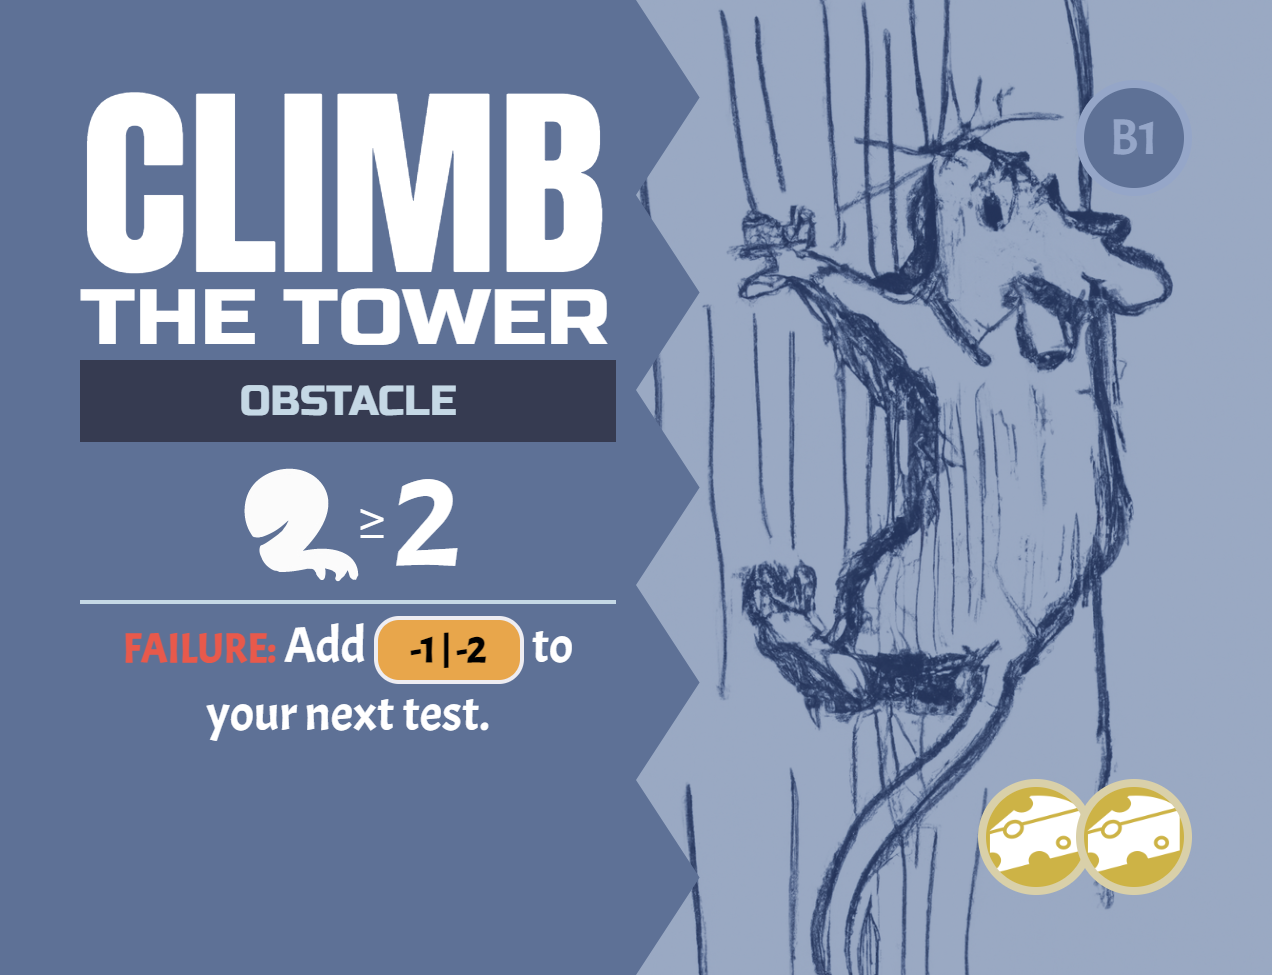
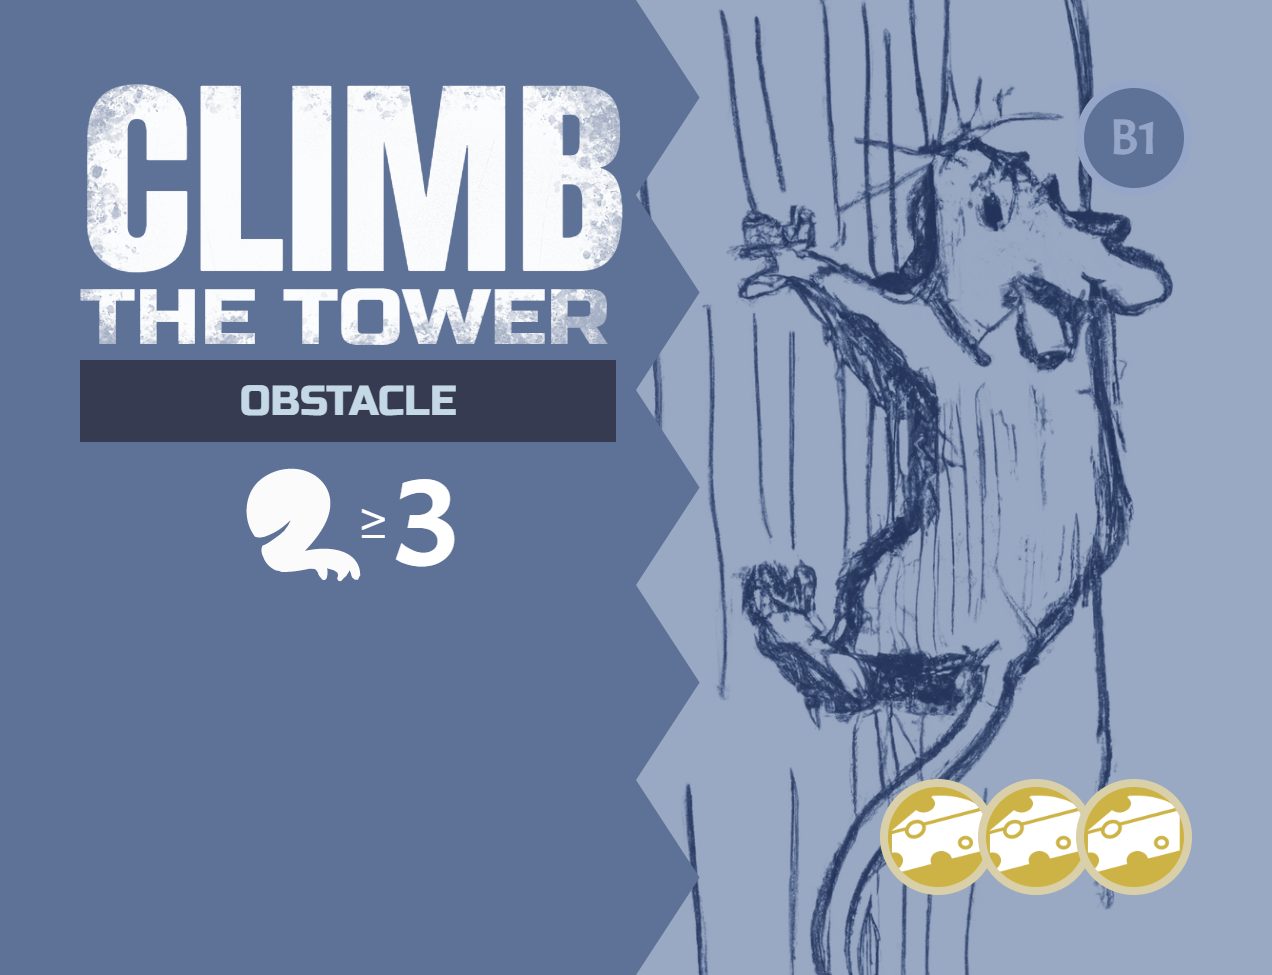
Update Mice Heist rules - cheese as points - player markers - contribution track - fixed number of Job cards - separate assist/skill decks - "testing player" - 3 choices for assisting - chips stay out until the bag is empty

diff --git a/heist/rules.md b/heist/rules.md
@@ -14,12 +14,19 @@ table.components {
 
 .assist {
   color: #363b51;
+  font-weight: bold;
 }
 .skill {
   color: #E8594B;
+  font-weight: bold;
 }
 .obstacle {
   color: #5e7196;
+  font-weight: bold;
+}
+.cheese {
+  color: #ffdd99;
+  font-weight: bold;
 }
 </style>
 
@@ -36,13 +43,13 @@ Modifier chips
 <table class="components">
 <tr><td><img class="card" alt="identity card" src="new-rulebook/identity.png"/></td><td><img class="card" alt="job card" src="new-rulebook/job.png"/></td></tr>
 <tr><td>7 identity cards</td><td>6 job cards</td></tr>
-<tr><td><img class="card" alt="obstacle card" src="new-rulebook/obstacle.png"/></td><td></td></tr>
-<tr><td>32 obstacle cards</td><td></td></tr>
+<tr>Player marker<td><img class="card" alt="obstacle card" src="new-rulebook/obstacle.png"/></td><td></td></tr>
+<tr><td>32 obstacle cards</td><td>5 player markers of each player color</td></tr>
 </table>
 
 <table class="components">
-<tr><td><img class="card" alt="assist card" src="new-rulebook/assist.png"/></td><td><img class="card" alt="skill card" src="new-rulebook/trick.png"/></td><td></td></tr>
-<tr><td>42 assist cards</td><td>37 skill cards</td><td></td></tr>
+<tr><td><img class="card" alt="assist card" src="new-rulebook/assist.png"/></td><td><img class="card" alt="skill card" src="new-rulebook/trick.png"/></td><td>Cheese Token</td></tr>
+<tr><td>42 assist cards</td><td>37 skill cards</td><td>60 cheese tokens</td></tr>
 </table>
 
 <table class="components">
@@ -51,22 +58,30 @@ Modifier chips
 </table>
 
 # SETUP
-1. Randomly deal 1 identity card face-up in front of each player. Return the rest to the game box.
-2. Randomly select <span class="job">Job</span> cards equal to the number of players. Place them in the center of the table.
-3. Place the <span class="obstacle">Obstacle</span> cards face-up on their corresponding <span class="job">Job</span> card (e.g. place A5 on job A) in numeric order with the lowest number on top (e.g. place A1 on top)
-4. Place all chips in the bag.
-5. Shuffle the <span class="skill">Skill</span> cards and <span class="assist">Assist</span> cards together to form a face-down resource deck. Leave room next to it for a face-up discard pile.
-6. Deal each player 5 cards from the resource deck.
-7. Randomly determine a starting player.
+1. Randomly deal 1 Identity card face-up in front of each player. Return the rest to the game box.
+1. Randomly select 4 <span class="job">Job</span> cards. Place them in the center of the table.
+1. Place the <span class="obstacle">Obstacle</span> cards face-up immediately below their corresponding <span class="job">Job</span> card (e.g. place A5 on job A) in numeric order with the lowest number on top (e.g. place A1 on top)
+1. Add 6 <span class="cheese">cheese</span> to each <span class="job">Job</span> card to seed its <span class="cheese">cheese</span> pool.
+1. For each <span class="obstacle">Obstacle</span> card place <span class="cheese">cheese</span> on it equal to the amount shown in the bottom right of the card.
+1. Put the remaining <span class="cheese">cheese</span> in a central supply.
+1. Place all chips in the bag.
+1. Shuffle the <span class="skill">Skill</span> cards and <span class="assist">Assist</span> cards separately to form 2 face-down resource decks. Leave room next to each for a face-up discard pile.
+1. Deal each player 3 cards from the <span class="skill">Skill</span> deck and 2 cards <span class="assist">Assist</span> deck, forming their starting 5 card hand.
+1. Each player chooses a player color and takes the 5 contribution markers of that color.
+1. Randomly determine a starting player.
 
 # GOAL
-There are a set of jobs that you all are looking to pull off. Each job can only be completed by overcoming a sequence of obstacles. Players will test their skill against these obstacles. When the game ends players are paid out according to how well they helped. There are also awards granted for having the highest of each skill. The player with the largest payout is the winner.
+You are all looking to pull off a set of jobs. Each job is progressed by overcoming a sequence of <span class="obstacle">Obstacles</span>. Players will test their skill against these <span class="obstacle">Obstacles</span>. When the game ends players are paid out according to how well they helped with each job.
+
+## Contribution
+
+Each job has a contribution track. When you contribute to the success of that job, you will increase your position on that track. When an <span class="obstacle">Obstacle</span> is overcome, <span class="cheese">cheese</span> is added to that job's payout. The player in 1st place will get most of the <span class="cheese">cheese</span>, with steadily decreasing rewards for other places (see "End Game & Scoring" below).
 
 # YOUR IDENTITY
 
 <img class="card" alt="identity" style="max-width: 300px" src="new-rulebook/identity.png"/>
 
-You start the game with an identity card that provides your starting skills. There are 3 skills:
+You start the game with an Identity card that provides your starting skills. There are 3 skills:
 	 
 | Agility | Charm | Dexterity |
 | --- | --- | --- |
@@ -86,7 +101,7 @@ Each <span class="obstacle">Obstacle</span> may have the following elements:
 - Failure penalty
 - Success reward 
 - Payout (bottom right)
-- Associated Job (bottom right)
+- Associated Job (top right)
 
 But all <span class="obstacle">Obstacles</span> will incur a <strong>test</strong>.
 
@@ -98,34 +113,45 @@ Resolving a test is done with the following steps:
 5. Resolve (Success or Failure)
 6. Prepare
 
+On your turn you are considered the "testing player."
+
 ### 1. EVALUATE SKILL
-An <span class="obstacle">Obstacle</span> will test one or more of your skills. Each of your skills has a score, which is the sum of the icons on your identity card and all <span class="assist">Assist</span> and <span class="skill">Skill</span> cards that have been added to your identity card.
+An <span class="obstacle">Obstacle</span> will test one or more of your skills. Each of your skills has a score, which is the sum of the icons on your Identity card and all <span class="skill">Skill</span> cards that have been added to your Identity card.
 
 If an <span class="obstacle">Obstacle</span> is testing multiple skills, add the score of all skills indicated.
 
 <mark>TODO: For “or” choice <span class="obstacle">Obstacles</span> do you choose up front (before assists) or at the end? Or is it just whichever is higher, no choice required?</mark>
 
 ### 2. GET HELP
-Each other player has an opportunity to play an <span class="assist">Assist</span> card to help (or potentially hinder) the current player. They simultaneously reveal either nothing or an <span class="assist">Assist</span> card to commit from their hand to the upcoming test. If they reveal nothing they draw a card from the resource deck, and then discard until they have no more than 5 cards in their hand.
+Each other player has an opportunity to bet on the outcome of the testing player's upcoming test. In clockwise order (starting with the player to the left of the testing player), each player will choose one of the following:
 
-<img class="card" alt="assist card" style="max-width: 150px" src="new-rulebook/assist.png"/> <img class="card" alt="assist card" style="max-width: 150px" src="new-rulebook/assistReward.png"/>
+#### A) Bet for
+Play a <span class="assist">Assist</span> card to help (or potentially hinder) the active player, and share in their success.
 
-<span class="assist">Assist</span> cards may modify the test result if they include a number in a circle. They may also modify the bag contents or have other effects. These are all resolved prior to making the test, in a clockwise order. Leave the <span class="assist">Assist</span> card in front of the player who committed them until the test is completed.
+#### B) Bet against
 
-<mark>You may only commit an <span class="assist">Assist</span> card if your player pawn is at the location of the active job marker. You may discard one card to move your pawn to the active player's location. You only need to pay this cost after <span class="assist">Assist</span> cards are revealed. If you cannot pay this cost (you have no more cards in your hand) then your committed <span class="assist">Assist</span> card is discarded.</mark>
+Play a <span class="skill">Skill</span> card facedown (ignoring the text on the front of the card) to learn from the active player's failure.
+
+#### C) Abstain
+
+Draw a card from either the <span class="skill">Skill</span> or <span class="assist">Assist</span> deck.
+
+#### Resolving an Assist card
+
+<img class="card" alt="assist card" style="max-width: 150px" src="new-rulebook/assist.png"/>
+
+<span class="assist">Assist</span> cards may modify the test result with a number modifier (indicated in a circle). They may also have other effects. These effects are all resolved now, _prior_ to making the test. After resolving the effects, leave the <span class="assist">Assist</span> card in front of the player who committed them until the test is completed.
 
 ### 3. DRAW CHIPS
 Draw 2 chips from the bag and without looking at them place them on the table. 
 
-Note that some <span class="obstacle">Obstacle</span> cards may modify how many chips are drawn from the default of 2.
-
-If any chips had previously been set aside for your next test, they are added now.
+At times you may need to draw a chip when there are no chips remaining in the bag. When this happens, return all chips from the play area _except the ones already drawn for this test_ to the bag. Then proceed drawing.
 
 ### 4. PLAY SKILLS
 
-<img class="card" alt="skill card" style="max-width: 150px" src="new-rulebook/trick.png"/> <img class="card" alt="skill card" style="max-width: 150px" src="new-rulebook/trickReward.png"/>
+<img class="card" alt="skill card" style="max-width: 150px" src="new-rulebook/trick.png"/> 
 
-At this time you (and only you) may play any number of <span class="skill">Skill</span> cards to modify the chip results. These could involve flipping chips (to change which modifier value is showing), drawing additional chips, or any number of effects.
+At this time you (and only you) may play any number of <span class="skill">Skill</span> cards to modify the chip results. These could involve flipping chips (to change which modifier value is showing), drawing additional chips, adding numeric modifiers, or any number of effects.
 
 ### 5. RESOLVE
 
@@ -133,27 +159,38 @@ At this time you (and only you) may play any number of <span class="skill">Skill
 
 Add the revealed modifiers showing on all chips and committed <span class="assist">Assist</span> cards to your skill score. If the sum is less than the target number for that skill you <strong>failed</strong>. Otherwise you <strong>succeeded</strong>.
 
-The drawn chips remain in front of you until the end of the round.
+Leave the drawn chips in the center of the play area.
 
 #### FAILURE
 - Apply the "failure" effect of the <span class="obstacle">Obstacle</span> (if any).
-- Unless the <span class="obstacle">Obstacle</span> says it is a “Mandatory Obstacle”, return the <span class="obstacle">Obstacle</span> card to the game box.
-- All players who played <span class="assist">Assist</span> cards that have a "Failure" (bottom) effect adds their card to their identity card. Discard any other <span class="assist">Assist</span> cards.
-- If you played a <span class="skill">Skill</span> card that has a score (cheese) value, add it to your score pile.
-- You may use the “Failure” (bottom) effect of one <span class="skill">Skill</span> card you played or of a <span class="skill">Skill</span> card from your hand. These are added to your identity card to upgrade your skills.
+- Unless the <span class="obstacle">Obstacle</span> says it is a “Mandatory Obstacle”, return the <span class="obstacle">Obstacle</span> card to the game box and any <span class="cheese">cheese</span> on it to the central supply.
+- Discard any played <span class="assist">Assist</span> cards.
+- You may **learn** one <span class="skill">Skill</span> cards you played, a <span class="skill">Skill</span> card from your hand, or the top <span class="skill">Skill</span> card from the <span class="skill">Skill</span> deck. To learn a <span class="skill">Skill</span> that card is added face-down to your identity card (upgrading your skill score).
 - Discard any other played <span class="skill">Skill</span> cards.
+- Increase your place on the job's contribution track by 3.
 
 #### SUCCESS
 - Apply the "success" effect of the <span class="obstacle">Obstacle</span> (if any).
-- Add the <span class="obstacle">Obstacle</span> card to your score pile.
-- All players who played <span class="assist">Assist</span> cards with a score (cheese) value adds their <span class="assist">Assist</span> card to their score pile.
-- Any player who played an <span class="assist">Assist</span> card with a “Success” (bottom) effect adds that card to their identity card. These will upgrade their skills.
+- Add all <span class="cheese">cheese</span> on the <span class="obstacle">Obstacle</span> to the corresponding job.
+- Return the <span class="obstacle">Obstacle</span> card to your game box.
+- All players who played <span class="assist">Assist</span> cards increase their place on the job's contribution track by 1. Discard these <span class="assist">Assist</span> cards.
 - Discard any played <span class="skill">Skill</span> cards.
+- Increase your place on the job's contribution track by 1.
+
+#### The contribution track
+
+To increase your place on the contribution track, take your player-colored contribution marker and move it up that many spaces on the track. If you are not already on the track, start counting from the first track space. If your marker would land on an already occupied space, instead move to the next available space. If you have reached the end of the track and there are no more available spaces, instead take one <span class="cheese">cheese</span> from the job's pool and add it to your personal stash.
+
+To decrease your place on the contribution track, move backwards as above however if you would land on an occupied space you instead move to the next available space _moving backwards_. If there are no previously available spaces then you remove your marker from the track entirely.
+
+#### Reveal the next obstacle
+
+If the <span class="obstacle">Obstacle</span> was discarded and a new one was revealed underneath it, add <span class="cheese">cheese</span> to that new <span class="obstacle">Obstacle</span> equal to the amount shown in the bottom right of that card.
+
+If there was no <span class="obstacle">Obstacle</span> underneath, then the job is complete and the end game has been triggered (see below).
 
 ### 6. PREPARE
 You may discard any number of cards from your hand. Then draw resource cards from the deck until you have 5 cards in your hand.
-
-Some <span class="obstacle">Obstacle</span> are labeled as "mandatory". These function the same as normal, except that if the test fails the 
 
 # OTHER DETAILS
 
@@ -161,12 +198,45 @@ Some <span class="obstacle">Obstacle</span> are labeled as "mandatory". These fu
 When a player is asked to draw a chip and there are none in the bag return all chips to the bag. Then continue drawing.
 
 ## DECK RUNS OUT
-The resource deck may run out of cards and you need to draw a card. When this happens, shuffle the discard pile into a new face-down resource deck.
+Either deck may run out of cards and you need to draw a card. When this happens, shuffle the discard pile of that deck to form a new face-down deck.
 
 # END GAME & SCORING
-- Tally the points on all cards in your score pile. 
-- If a <span class="job">Job</span> was completed each player who completed at least 1 <span class="obstacle">Obstacle</span> from that <span class="job">Job</span> scores 1 point.
-- For each of the 3 skills, the player with the highest value for that skill is awarded 3 points. If there is a tie, all tied players receive the 3 points.
-- The player with te most scored <span class="assist">Assist</span> cards is awarded 3 points. If there is a tie, all tied players receive the 3 points.
+The end game is triggered when one of the jobs has been completed (there are no more <span class="obstacle">Obstacle</span> cards).
 
-The player with the most points is the winner. If there is a tie the player with the most scored <span class="assist">Assist</span> cards is the winner. If there’s still a tie the players share the victory.
+## Job's pay out
+
+For each job, pay out <span class="cheese">cheese</span> according to each player's place on the contribution track, adding to any <span class="cheese">cheese</span> that player has collected over the course of the game. The player in 1st place on the track will get paid half (rounded up) of that job's <span class="cheese">cheese</span> pool. The player in 2nd place will get paid half (rounded up) of the remaining <span class="cheese">cheese</span>, and so on.
+
+You may also use this chart:
+| Cheese | 1st | 2nd | 3rd | 4th | 5th |
+| ------ | --- | --- | --- | --- | --- |
+| 5      | 3   | 1   | 1   | 0   | 0   |
+| 6      | 3   | 2   | 1   | 0   | 0   |
+| 7      | 4   | 2   | 1   | 0   | 0   |
+| 8      | 4   | 2   | 1   | 1   | 0   |
+| 9      | 5   | 2   | 1   | 1   | 0   |
+| 10     | 5   | 3   | 1   | 1   | 0   |
+| 11     | 6   | 3   | 1   | 1   | 0   |
+| 12     | 6   | 3   | 2   | 1   | 0   |
+| 13     | 7   | 3   | 2   | 1   | 0   |
+| 14     | 7   | 4   | 2   | 1   | 0   |
+| 15     | 8   | 4   | 2   | 1   | 0   |
+| 16     | 8   | 4   | 2   | 1   | 1   |
+| 17     | 9   | 4   | 2   | 1   | 1   |
+| 18     | 9   | 5   | 2   | 1   | 1   |
+| 19     | 10  | 5   | 2   | 1   | 1   |
+| 20     | 10  | 5   | 3   | 1   | 1   |
+| 21     | 11  | 5   | 3   | 1   | 1   |
+| 22     | 11  | 6   | 3   | 1   | 1   |
+| 23     | 12  | 6   | 3   | 1   | 1   |
+| 24     | 12  | 6   | 3   | 2   | 1   |
+| 25     | 13  | 6   | 3   | 2   | 1   |
+| 26     | 13  | 7   | 3   | 2   | 1   |
+| 27     | 14  | 7   | 3   | 2   | 1   |
+| 28     | 14  | 7   | 4   | 2   | 1   |
+| 29     | 15  | 7   | 4   | 2   | 1   |
+| 30     | 15  | 8   | 4   | 2   | 1   |
+
+## Most cheese wins
+
+The player with the most <span class="cheese">cheese</span>  is the winner. If there is a tie the player with the most total learned <span class="skill">Skill</span> cards is the winner. If there’s still a tie the players share the victory.
